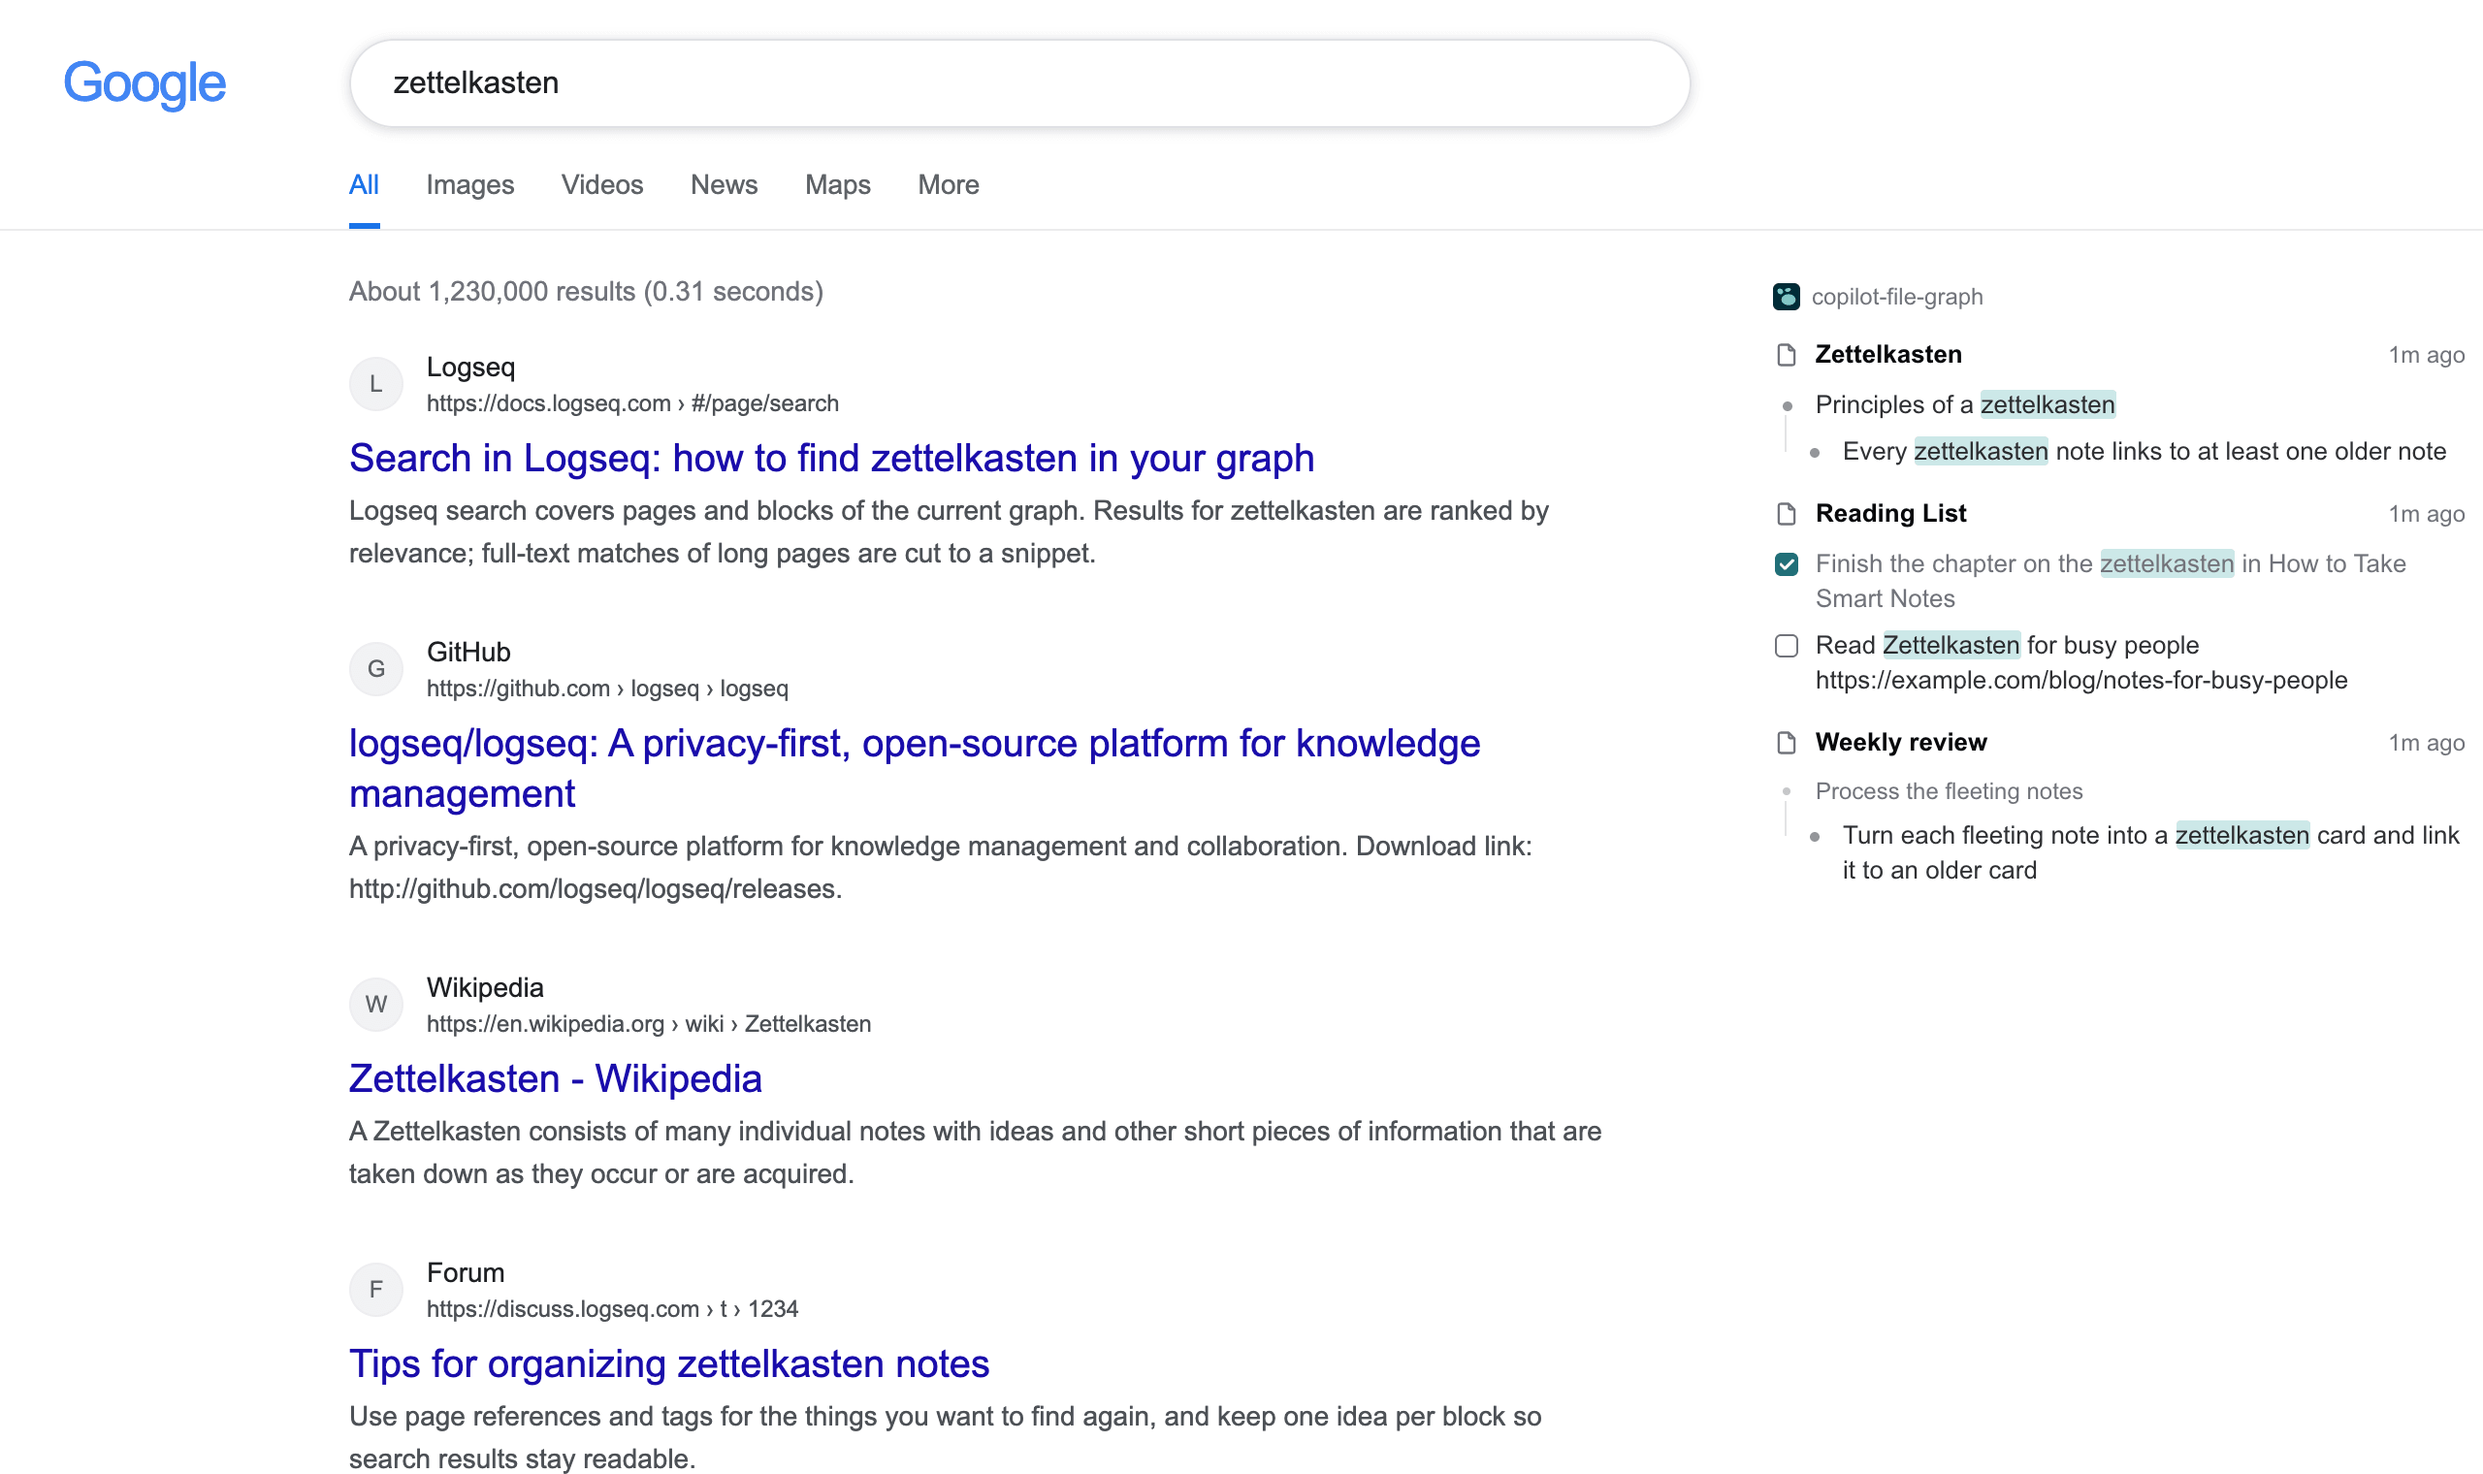
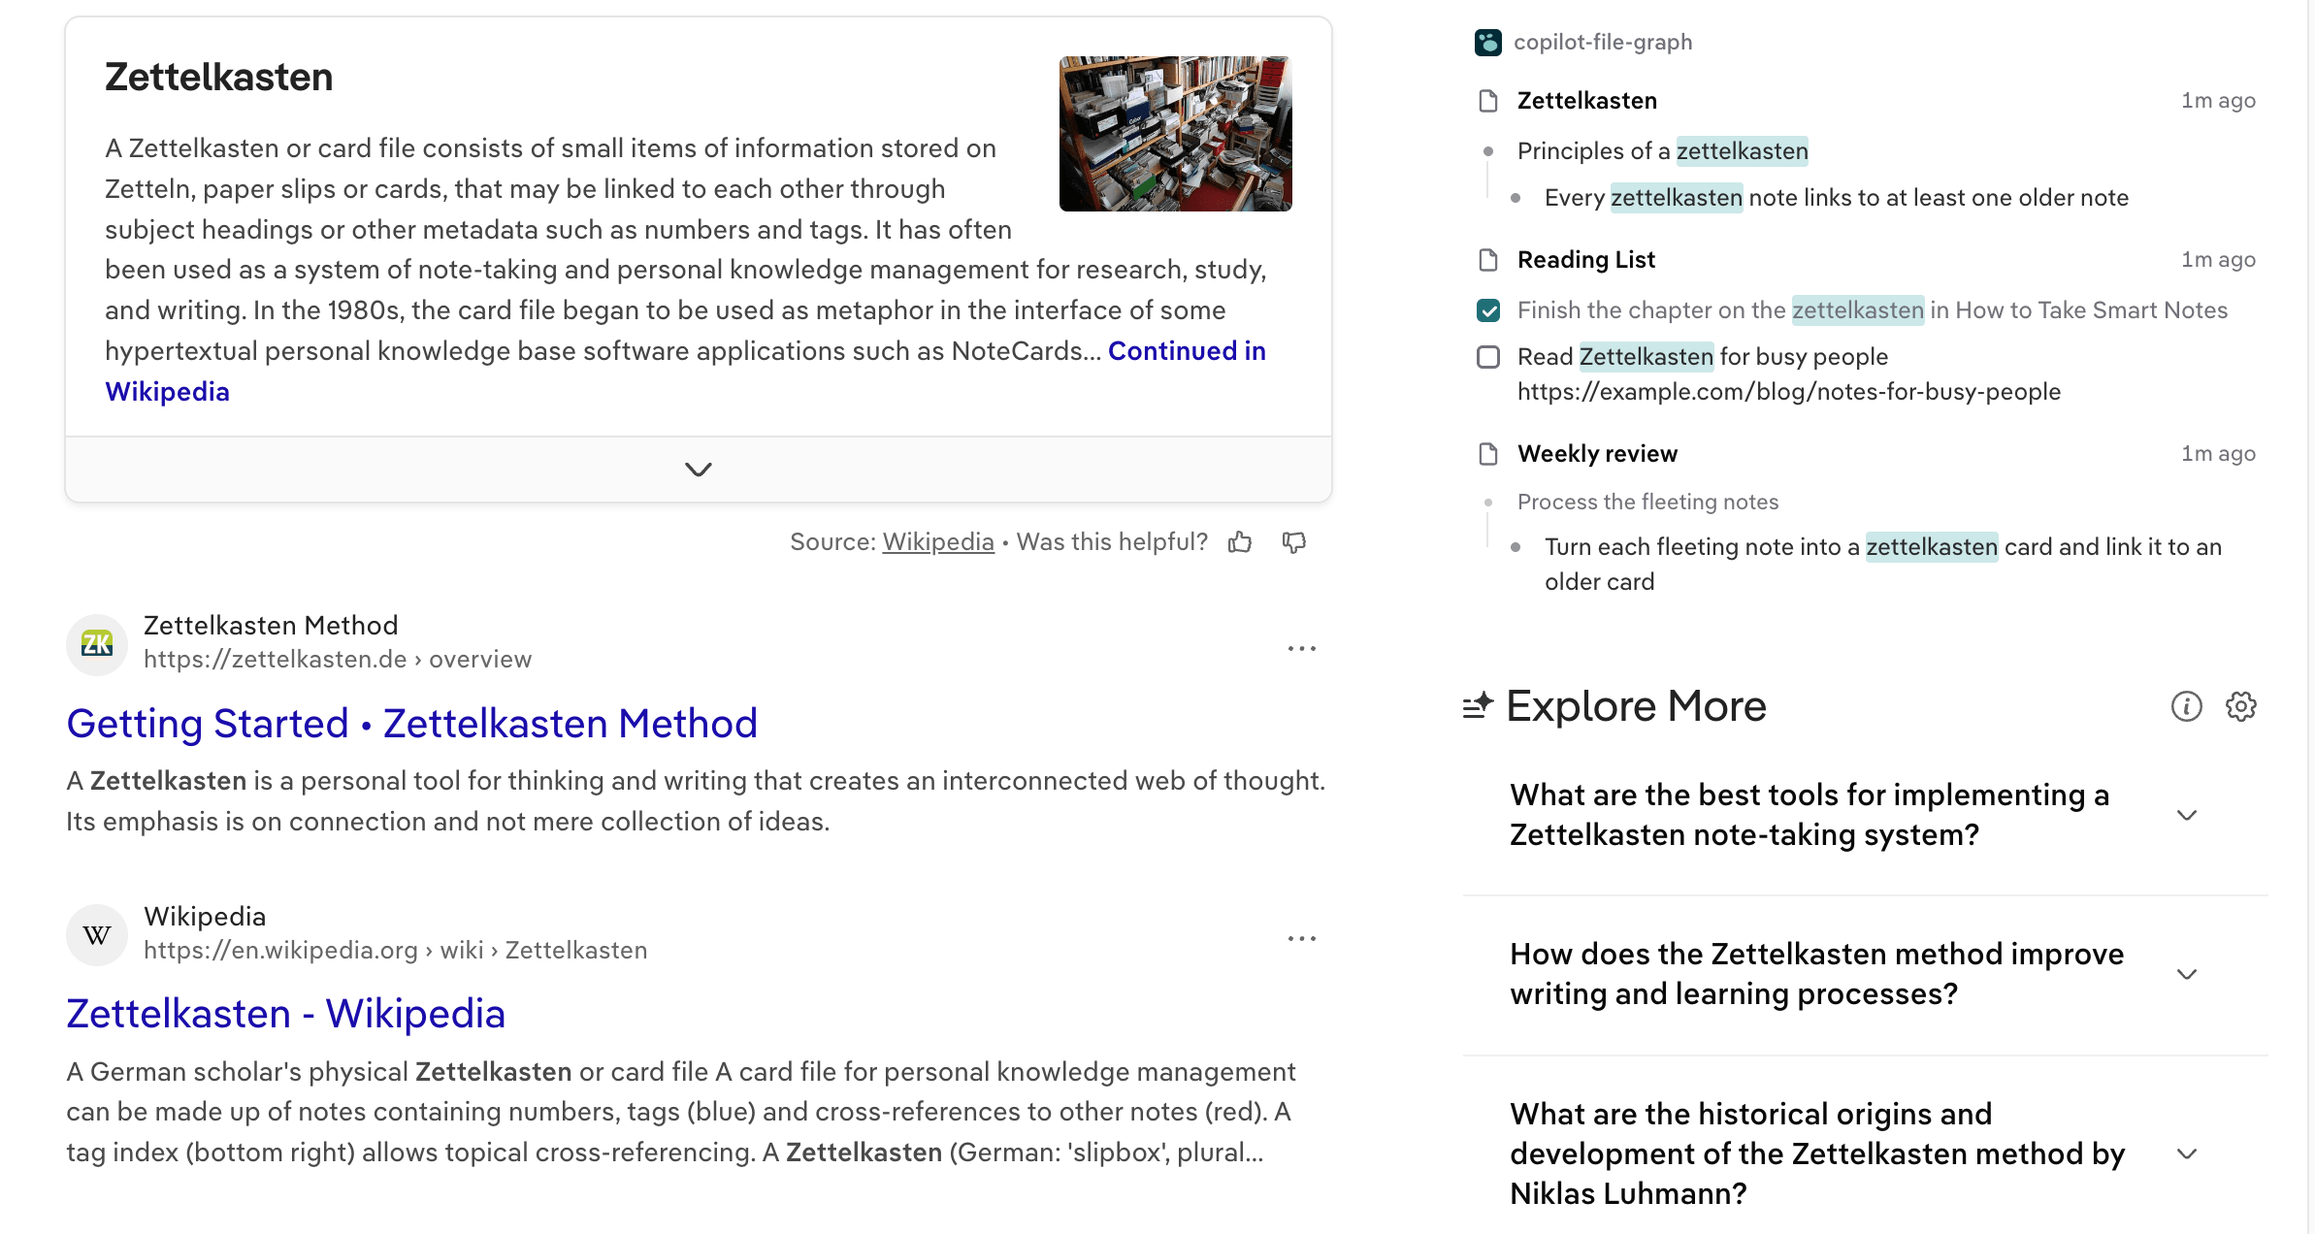
docs: retake the recall card on the live DuckDuckGo results page
The screenshot spec takes it from duckduckgo.com with the demo notes (DOCS_SCREENSHOTS_LIVE=1, headed), in place of the mocked Google page with invented result counts.

diff --git a/tests/e2e/docs-screenshots.spec.ts b/tests/e2e/docs-screenshots.spec.ts
@@ -9,6 +9,9 @@
  *   DOCS_SCREENSHOTS=1 E2E_DEVICE_SCALE_FACTOR=2 LOGSEQ_VARIANT=file LOGSEQ_BIN=$BIN \
  *     LOGSEQ_API_PORT=12399 pnpm test:e2e:run --project=chromium docs-screenshots
  *
+ * recall-card.png is taken on the real DuckDuckGo result page, so it needs
+ * the network and a headed browser; add DOCS_SCREENSHOTS_LIVE=1 E2E_HEADED=1.
+ *
  * The PNGs are quantized to a palette when `sharp` can be loaded (it is a
  * dependency of docs/), which keeps each one well under 400 KB.
  */
@@ -17,7 +20,6 @@ import { createRequire } from 'node:module';
 import path from 'node:path';
 import type { Page } from '@playwright/test';
 import { expect, logseqInfo, test } from './fixtures';
-import { googleUrl } from './pages';
 
 const OUT_DIR = path.resolve(__dirname, '../../docs/public/screenshots');
 const ARTICLE_URL = 'https://example.com/blog/notes-for-busy-people';
@@ -166,18 +168,47 @@ test.describe('docs screenshots', () => {
     await sidebar.close();
   });
 
-  test('recall card on a search results page', async ({ page, ext }) => {
-    await page.setViewportSize({ width: 1280, height: 760 });
-    await ext.connect();
-    const host = page.locator('#rhs logseq-copilot-search-engine');
-    await expect(async () => {
-      await page.goto(googleUrl('zettelkasten'));
-      await expect(host.locator('.lc-page-name').getByText('Zettelkasten', { exact: true })).toBeVisible({ timeout: 4000 });
-      await expect(host.getByText(/Turn each fleeting note/)).toBeVisible({ timeout: 4000 });
-    }).toPass({ timeout: 60_000 });
-    await lightPage(page);
-    await page.mouse.move(0, 0);
-    await save('recall-card.png', await page.screenshot({ animations: 'disabled', clip: { x: 0, y: 0, width: 1280, height: 760 } }));
+  // The real DuckDuckGo result page, not a fixture: needs the network and a
+  // headed browser (E2E_HEADED=1), and DOCS_SCREENSHOTS_LIVE=1 on top of
+  // DOCS_SCREENSHOTS=1. The page can answer with a bot check; then the test
+  // fails and recall-card.png stays as it is.
+  test.describe('live', () => {
+    test.skip(process.env.DOCS_SCREENSHOTS_LIVE !== '1', 'live: set DOCS_SCREENSHOTS_LIVE=1');
+    test.use({ fixtureSites: false });
+
+    test('recall card on DuckDuckGo', async ({ page, ext }) => {
+      test.setTimeout(180_000);
+      await page.setViewportSize({ width: 1280, height: 1000 });
+      await ext.connect();
+      const host = page.locator('logseq-copilot-search-engine');
+      const organic = page.locator('li[data-layout="organic"]');
+      await expect(async () => {
+        await page.goto('https://duckduckgo.com/?q=zettelkasten');
+        await expect(organic.first()).toBeVisible({ timeout: 15_000 });
+        await expect(host.locator('.lc-page-name').getByText('Zettelkasten', { exact: true })).toBeVisible({ timeout: 8000 });
+        await expect(host.getByText(/Turn each fleeting note/)).toBeVisible({ timeout: 8000 });
+      }).toPass({ timeout: 120_000 });
+      // The browser promotion every new profile gets: close it with its X.
+      const promotion = page.getByText('Try the DuckDuckGo Browser');
+      if (await promotion.isVisible()) await page.getByRole('button', { name: 'Dismiss', exact: true }).click();
+      await expect(promotion).toBeHidden();
+      // Its closing note fades out by itself.
+      await expect(page.getByText('start.duckduckgo.com')).toBeHidden({ timeout: 30_000 });
+      await lightPage(page);
+      await page.mouse.move(0, 0);
+      await page.evaluate(() => window.scrollTo(0, 0));
+      const results = (await organic.first().boundingBox())!;
+      const card = (await host.boundingBox())!;
+      const second = (await organic.nth(1).boundingBox())!;
+      const margin = 24;
+      const x = Math.max(0, Math.min(results.x, card.x) - margin);
+      // From the card down: the bar above it holds the visitor's region.
+      const y = Math.max(0, card.y - 8);
+      await save('recall-card.png', await page.screenshot({
+        animations: 'disabled',
+        clip: { x, y, width: Math.min(1280 - x, card.x + card.width + margin - x), height: second.y + second.height + margin - y },
+      }));
+    });
   });
 
   test('Settings, Sidebar, In-page sidebar', async ({ page, ext }) => {
